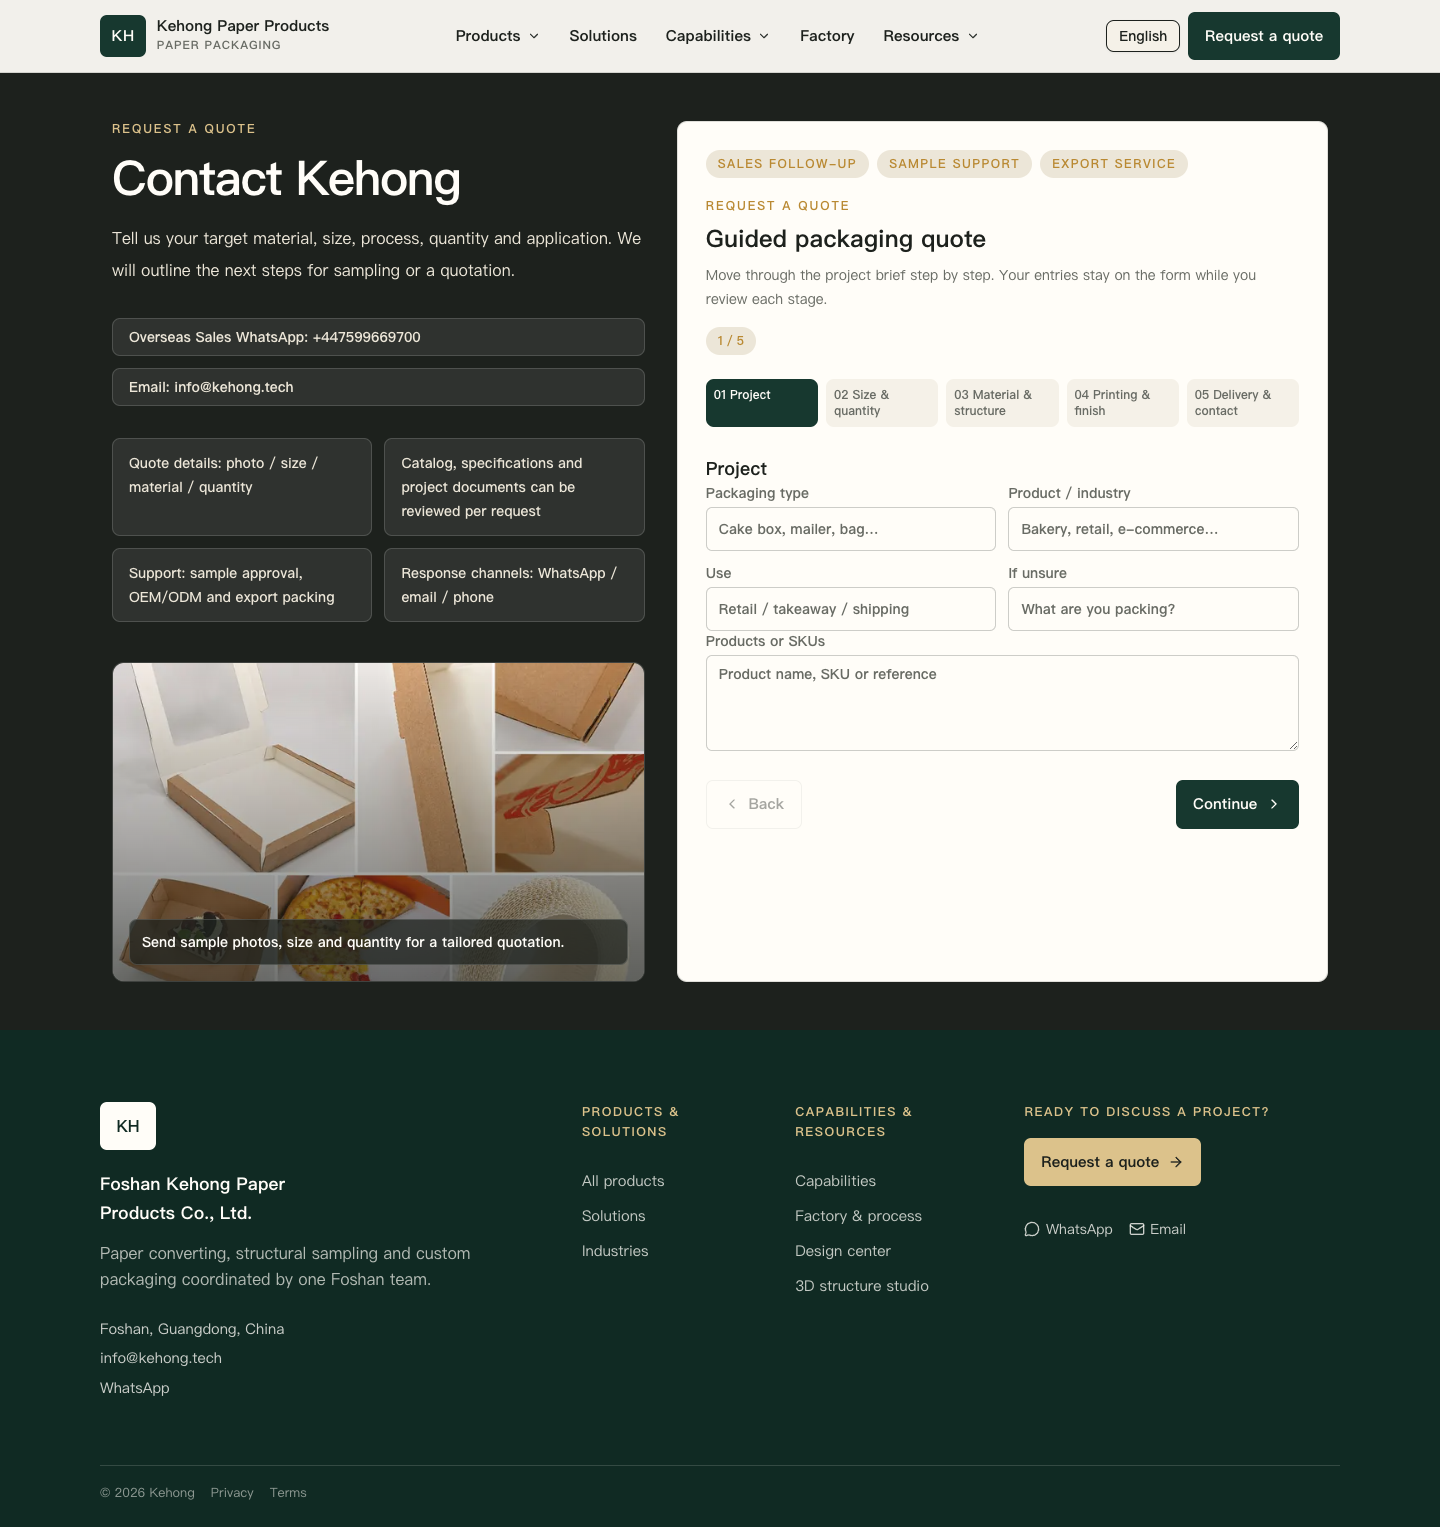
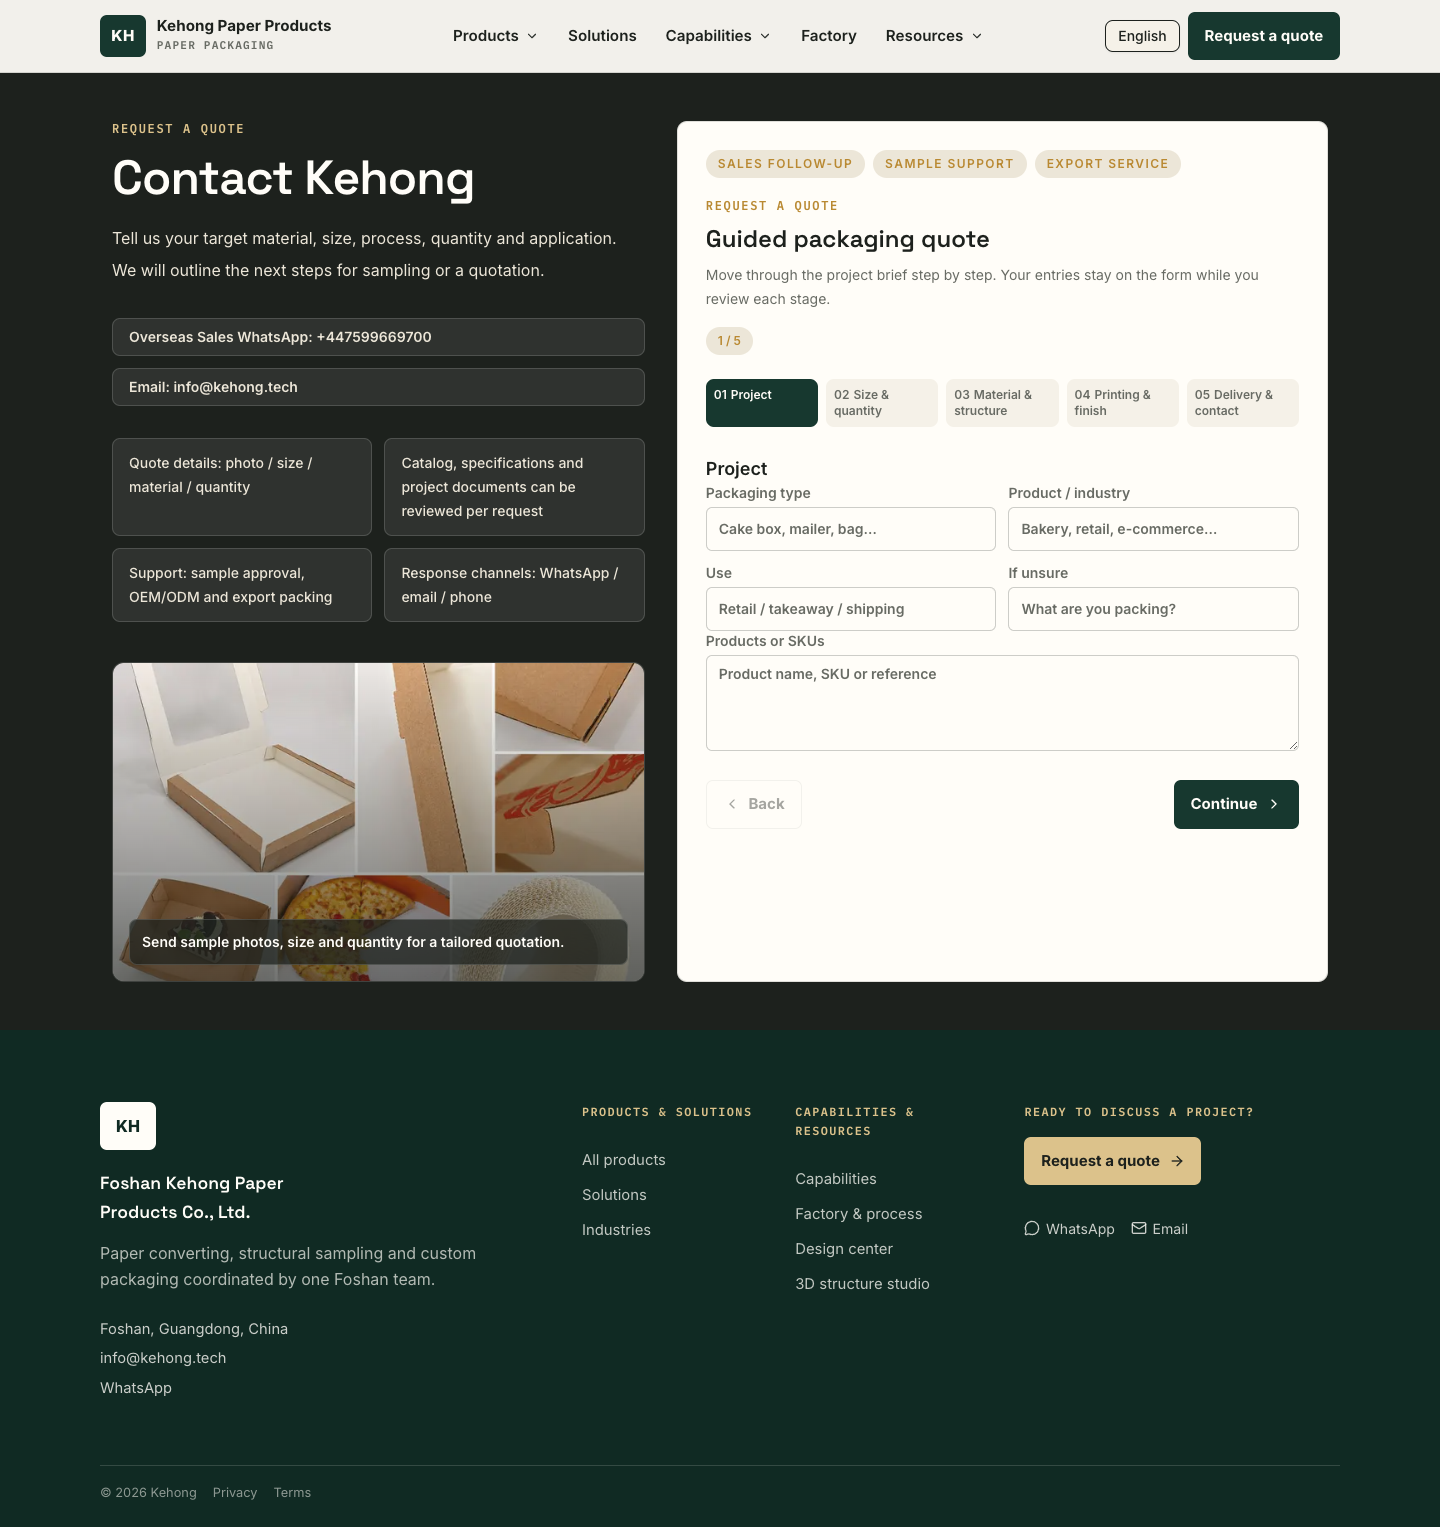
feat: three-tier typography system and layout rhythm cleanup
- load Space Grotesk (display), Inter (body) and IBM Plex Mono
  (engineering annotations) via next/font with CJK system fallback;
  headings, hero stats and editorial titles move to the display face
- annotation language unified on mono: eyebrows/kickers, marquee items,
  nav panel labels, footer column labels, brand tagline, fig captions
- tightened scale: card/list/process titles all 1.25rem, letter-spacing
  reduced to two steps (.12em annotations / .14em eyebrows), display
  tracking relaxed for Space Grotesk, section-heading link baseline
  aligned, zh headings keep -.01em rule
- e2e 31 passed / 1 skipped; official screenshot set regenerated

diff --git a/src/app/globals.css b/src/app/globals.css
@@ -28,7 +28,10 @@
   --kh-forest-deep: #0a1612;
   --kh-shadow-soft: 0 10px 30px rgba(29, 33, 29, .08);
   --kh-ease: cubic-bezier(.22, 1, .36, 1);
-  --font-mono: ui-monospace, "SF Mono", Menlo, Consolas, monospace;
+  /* 三层字体体系:正文 / 展示标题 / 工程注记 */
+  --font-body: var(--font-inter, Inter), "Noto Sans SC", "Microsoft YaHei", "PingFang SC", "Segoe UI", Arial, sans-serif;
+  --font-display: var(--font-space-grotesk, "Space Grotesk"), var(--font-inter, Inter), "Noto Sans SC", "PingFang SC", "Microsoft YaHei", sans-serif;
+  --font-mono: var(--font-plex-mono, "IBM Plex Mono"), ui-monospace, "SF Mono", Menlo, Consolas, monospace;
   --background: var(--kh-paper);
   --foreground: var(--kh-ink);
   --primary: var(--kh-forest);
@@ -48,13 +51,16 @@
     margin: 0;
     background: var(--kh-paper);
     color: var(--kh-ink);
-    font-family: Inter, "Noto Sans SC", "Microsoft YaHei", "PingFang SC", "Segoe UI", Arial, sans-serif;
+    font-family: var(--font-body);
     font-size: 16px;
     line-height: 1.65;
   }
   a {
     color: inherit;
     text-decoration: none;
+  }
+  h1, h2, h3, h4 {
+    font-family: var(--font-display);
   }
   button, a, input, textarea, select, summary {
     -webkit-tap-highlight-color: transparent;
@@ -139,9 +145,10 @@
     display: block;
     margin-top: .1rem;
     color: var(--kh-muted);
-    font-size: .72rem;
+    font-family: var(--font-mono);
+    font-size: .7rem;
     font-weight: 600;
-    letter-spacing: .08em;
+    letter-spacing: .1em;
     text-transform: uppercase;
     white-space: nowrap;
   }
@@ -221,8 +228,9 @@
   .kh-nav-panel-label {
     margin: .4rem .65rem .2rem;
     color: var(--kh-muted);
+    font-family: var(--font-mono);
     font-size: .72rem;
-    font-weight: 700;
+    font-weight: 600;
     letter-spacing: .12em;
     text-transform: uppercase;
   }
@@ -291,9 +299,10 @@
   .kh-eyebrow, .kh-section-kicker {
     margin: 0;
     color: var(--kh-brass);
+    font-family: var(--font-mono);
     font-size: 12px;
-    font-weight: 700;
-    letter-spacing: .16em;
+    font-weight: 600;
+    letter-spacing: .14em;
     line-height: 1.4;
     text-transform: uppercase;
   }
@@ -301,8 +310,9 @@
     color: var(--kh-brass-soft);
   }
   .kh-editorial-heading {
+    font-family: var(--font-display);
     font-weight: 600;
-    letter-spacing: -.035em;
+    letter-spacing: -.02em;
     line-height: 1.1;
   }
   .kh-lede, .kh-section-lede {
@@ -437,8 +447,8 @@
   .kh-mono {
     font-family: var(--font-mono);
     font-size: .72rem;
-    font-weight: 700;
-    letter-spacing: .14em;
+    font-weight: 600;
+    letter-spacing: .12em;
     text-transform: uppercase;
     line-height: 1.5;
   }
@@ -532,7 +542,7 @@
     margin: 1rem 0 1.25rem;
     font-size: clamp(2.75rem, 6vw, 5.25rem);
     font-weight: 700;
-    letter-spacing: -.04em;
+    letter-spacing: -.025em;
     line-height: 1.04;
     color: #fffdf8;
   }
@@ -549,6 +559,7 @@
   }
   .kh-hero-stat b {
     display: block;
+    font-family: var(--font-display);
     font-size: clamp(2rem, 3.2vw, 3rem);
     font-weight: 700;
     font-variant-numeric: tabular-nums;
@@ -621,8 +632,11 @@
     gap: 2.5rem;
     margin-right: 2.5rem;
     color: rgba(255, 253, 248, .85);
-    font-size: .95rem;
+    font-family: var(--font-mono);
+    font-size: .8rem;
     font-weight: 600;
+    letter-spacing: .1em;
+    text-transform: uppercase;
     white-space: nowrap;
     transition: color .12s ease;
   }
@@ -655,15 +669,19 @@
     align-items: end;
     justify-content: space-between;
     gap: 2rem;
-    margin-bottom: 2.5rem;
+    margin-bottom: 2.75rem;
+  }
+  .kh-section-heading .kh-text-link {
+    margin-bottom: .45rem;
+    white-space: nowrap;
   }
   .kh-section h2, .kh-section-cta h2 {
     max-width: 20ch;
-    margin: .7rem 0 0;
+    margin: .85rem 0 0;
     font-size: clamp(2.25rem, 4.5vw, 3.6rem);
     font-weight: 600;
-    letter-spacing: -.035em;
-    line-height: 1.06;
+    letter-spacing: -.02em;
+    line-height: 1.08;
   }
 
   /* ---------- S3 产品系统 Bento ---------- */
@@ -843,7 +861,7 @@
   }
   .kh-process-step h3 {
     margin: 0;
-    font-size: 1.3rem;
+    font-size: 1.25rem;
     font-weight: 600;
   }
   .kh-process-step p {
@@ -1008,7 +1026,7 @@
   }
   .kh-industry-row h3 {
     margin: 0;
-    font-size: 1.35rem;
+    font-size: 1.25rem;
     font-weight: 600;
   }
   .kh-industry-row p {
@@ -1195,8 +1213,9 @@
   .kh-footer-links p, .kh-footer-quote > p {
     margin: 0 0 1rem;
     color: var(--kh-brass-soft);
-    font-size: .78rem;
-    font-weight: 700;
+    font-family: var(--font-mono);
+    font-size: .74rem;
+    font-weight: 600;
     letter-spacing: .12em;
     text-transform: uppercase;
   }

diff --git a/src/app/[locale]/layout.tsx b/src/app/[locale]/layout.tsx
@@ -9,6 +9,7 @@ import {
   setRequestLocale,
 } from "next-intl/server";
 import { Metadata } from "next";
+import { IBM_Plex_Mono, Inter, Space_Grotesk } from "next/font/google";
 import { Analytics } from "@vercel/analytics/react";
 import { SpeedInsights } from "@vercel/speed-insights/next";
 import {
@@ -18,6 +19,11 @@ import {
   siteConfig,
 } from "@/lib/site";
 import "../globals.css";
+
+// 三层字体体系:展示(标题)/ 正文 / 工程注记;中文回落 Noto Sans SC 系统栈
+const inter = Inter({ subsets: ["latin"], variable: "--font-inter", display: "swap" });
+const spaceGrotesk = Space_Grotesk({ subsets: ["latin"], variable: "--font-space-grotesk", display: "swap" });
+const plexMono = IBM_Plex_Mono({ subsets: ["latin"], weight: ["500", "600"], variable: "--font-plex-mono", display: "swap" });
 
 export default async function RootLayout({
   children,
@@ -41,7 +47,7 @@ export default async function RootLayout({
     <html
       lang={locale}
       dir="ltr"
-      className="dark"
+      className={`dark ${inter.variable} ${spaceGrotesk.variable} ${plexMono.variable}`}
       suppressHydrationWarning
     >
       <head>

diff --git a/docs/product-data-cleaning-report.md b/docs/product-data-cleaning-report.md
@@ -1,6 +1,6 @@
 # Kehong Product Data Cleaning Report
 
-Generated: 2026-07-26T17:00:51.897Z
+Generated: 2026-07-26T17:20:40.388Z
 
 ## Summary
 
